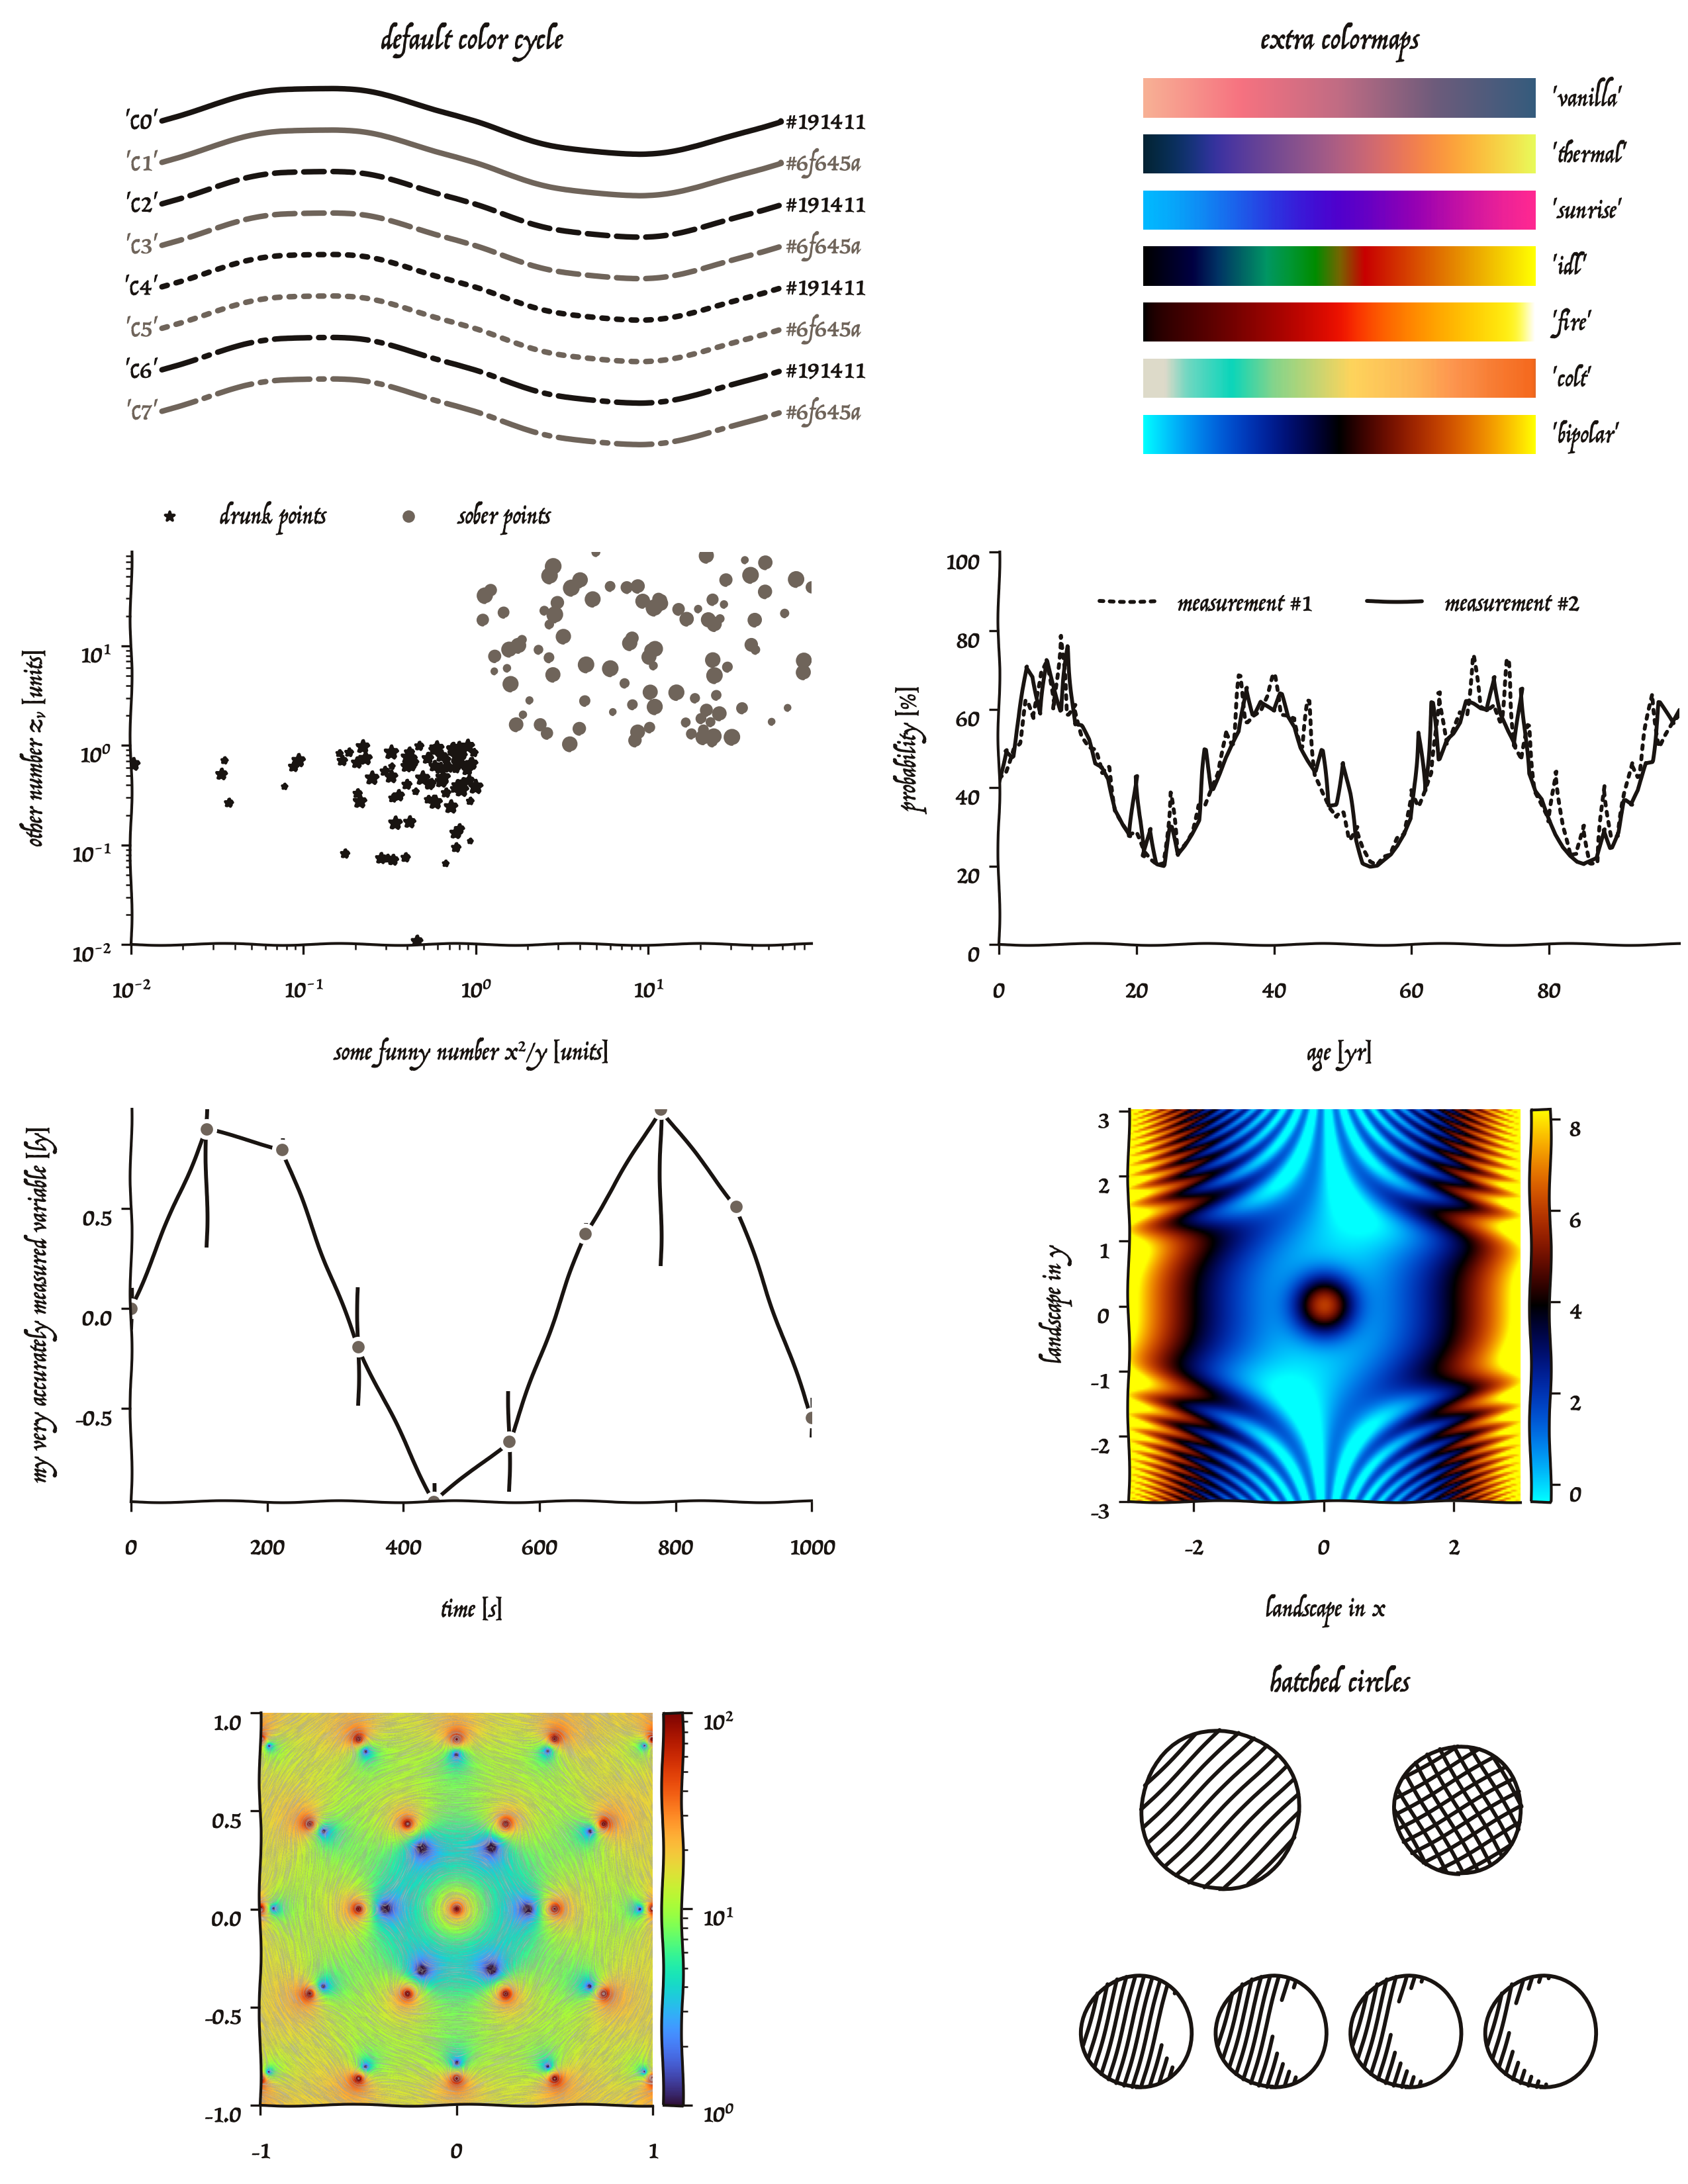
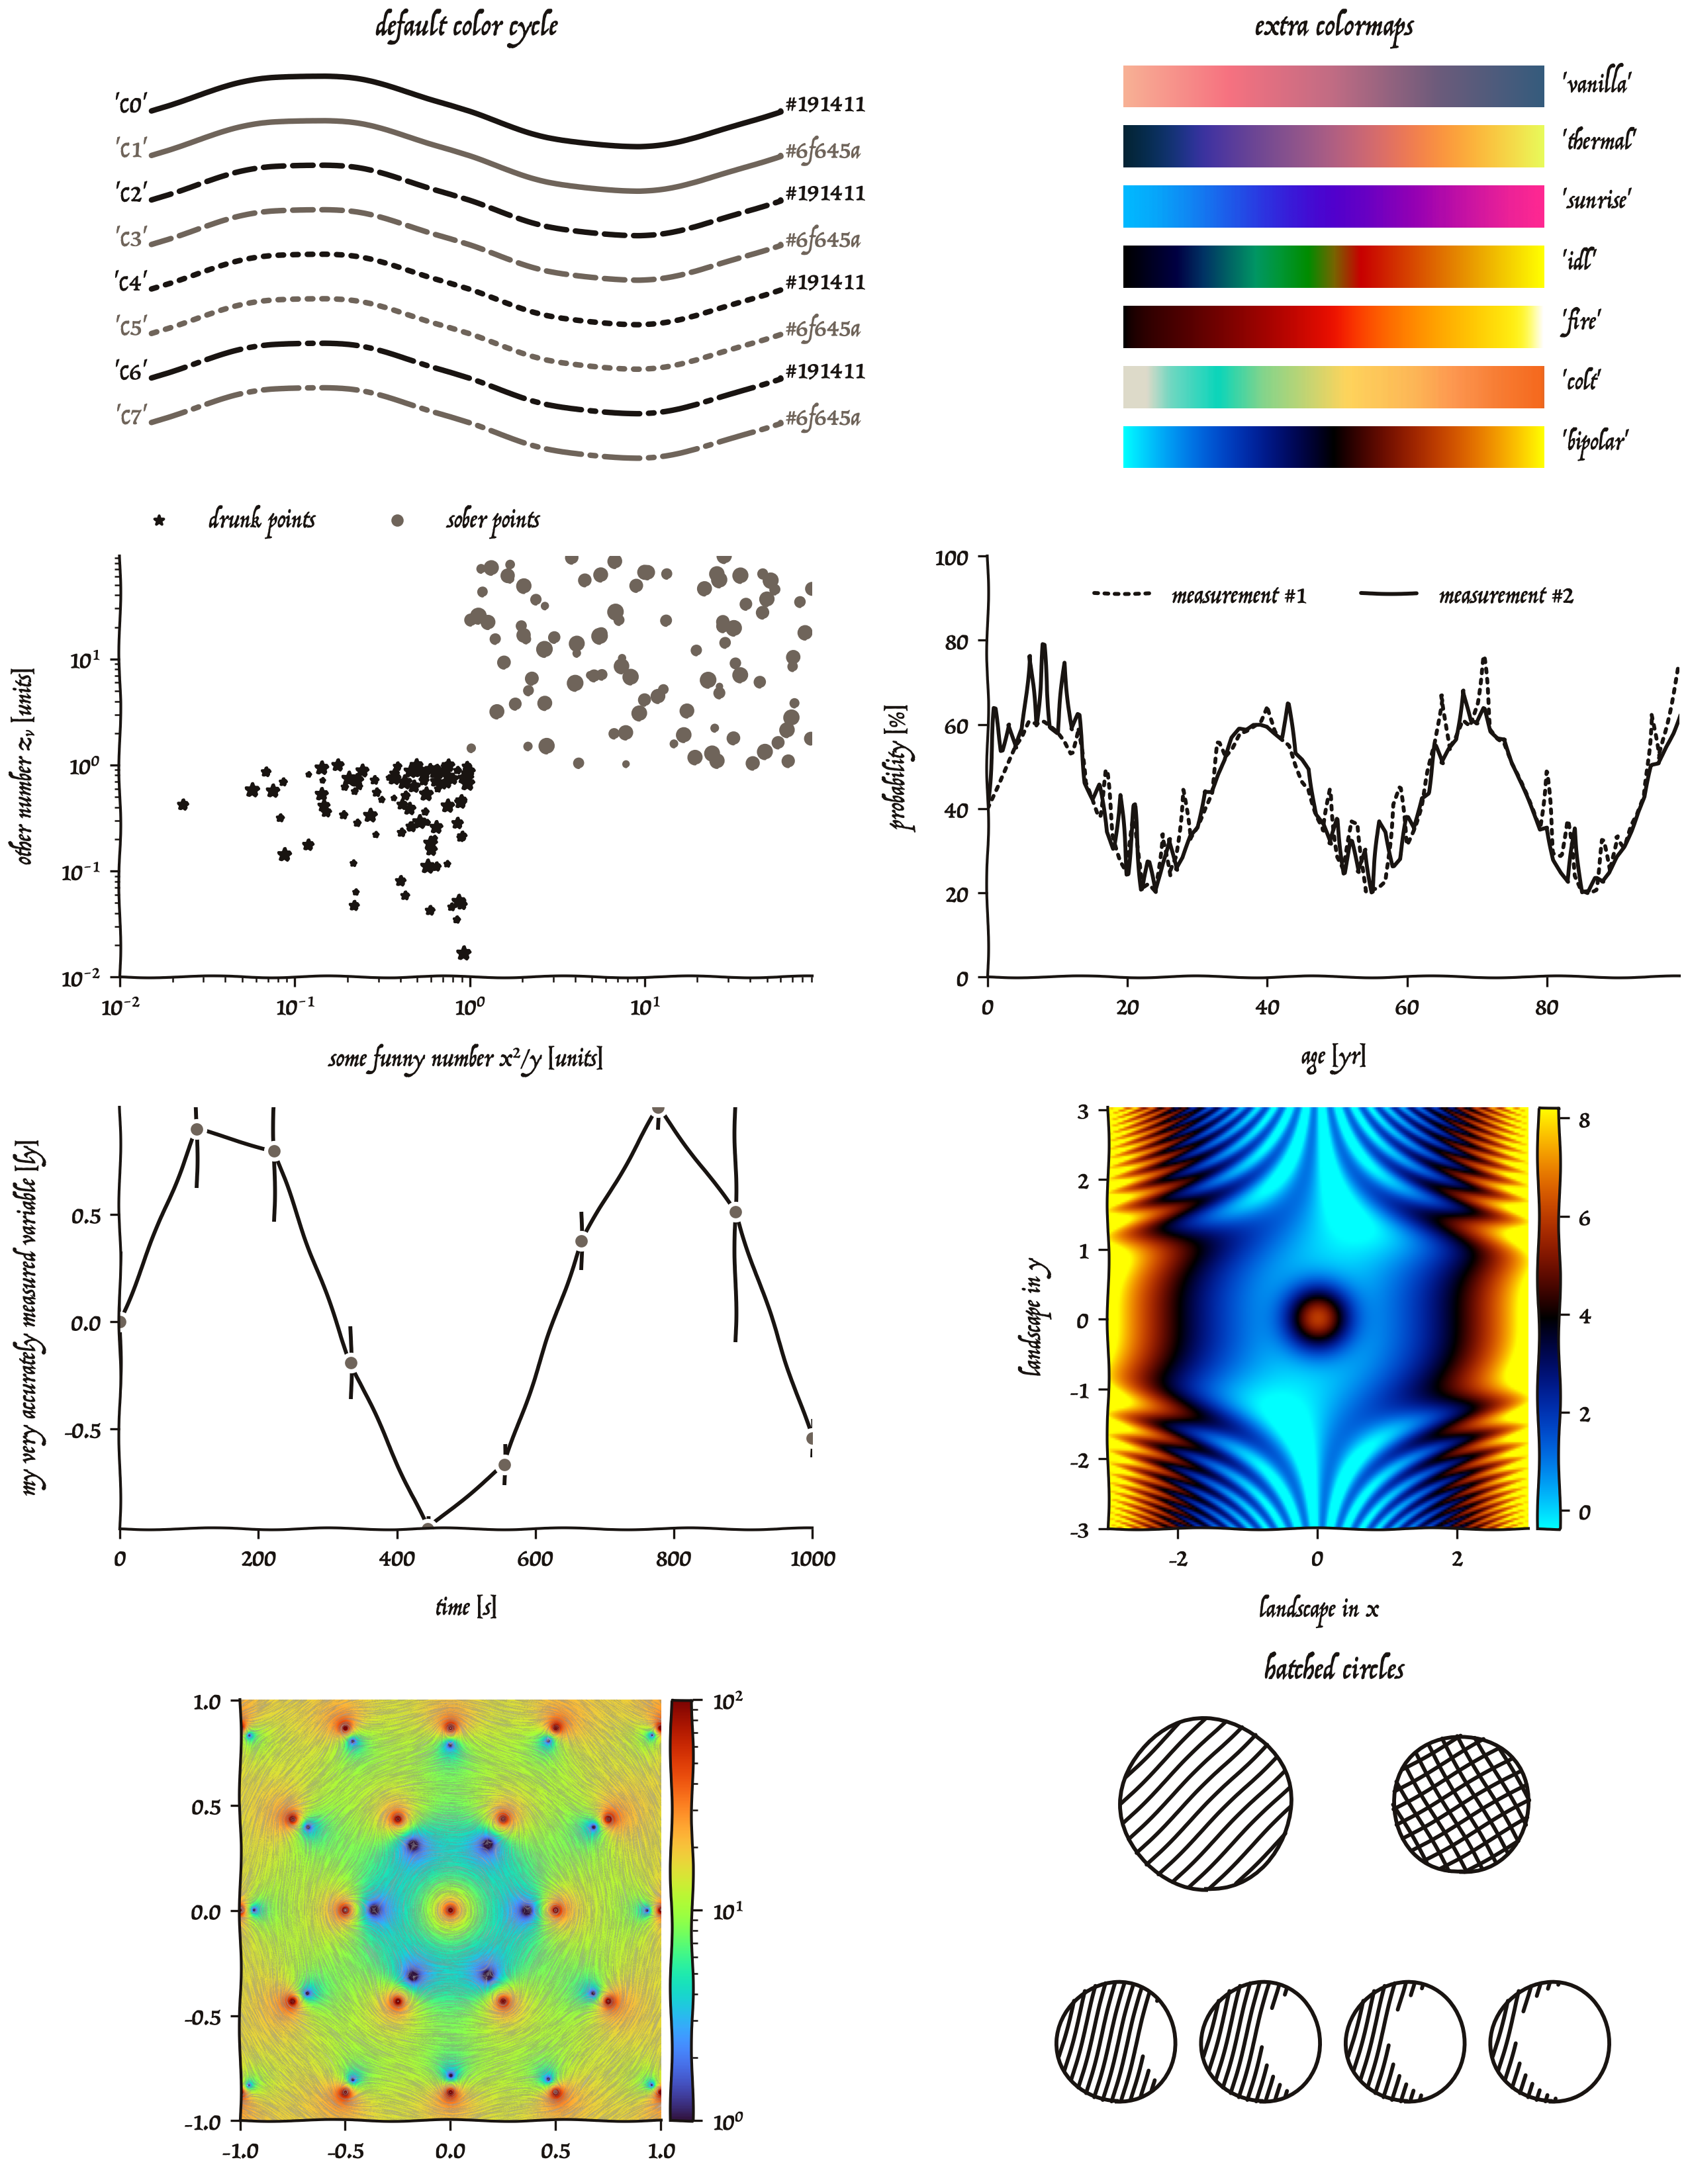
patched font -> move letters up

diff --git a/myplotlib/__init__.py b/myplotlib/__init__.py
@@ -4,7 +4,7 @@ Importing `myplotlib` adds package assets to Matplotlib's style library,
 colormap registry, and font manager.
 """
 
-__version__ = "1.8.0"
+__version__ = "1.8.1"
 
 
 import warnings